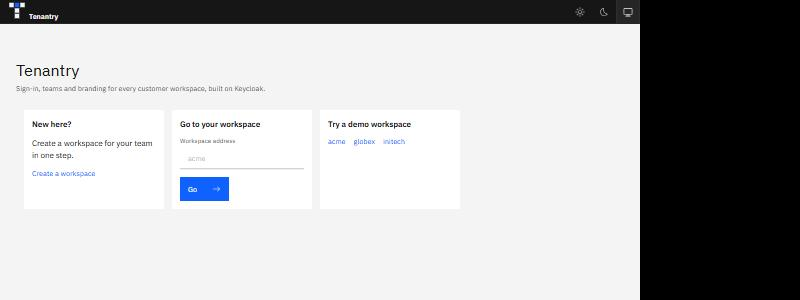
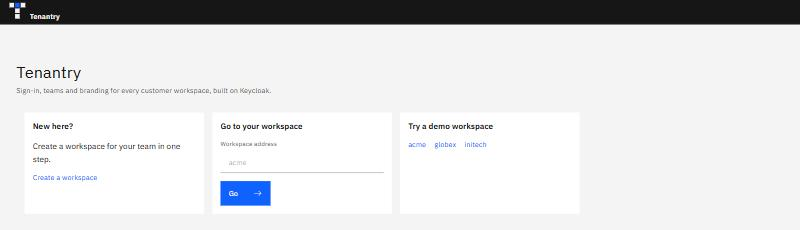
docs: README screenshots of the redesign; search opens at the page's level

diff --git a/packages/app-kit/src/search/WorkspaceSearch.tsx b/packages/app-kit/src/search/WorkspaceSearch.tsx
@@ -1,7 +1,8 @@
 import { ComposedModal, HeaderGlobalAction, ModalBody, Search } from '@carbon/react';
 import { Application, Folder, Search as SearchIcon, User } from '@carbon/icons-react';
 import type { NavItem } from '@tenantry/ui';
-import { useEffect, useMemo, useState } from 'react';
+import { useEffect, useMemo, useRef, useState } from 'react';
+import { createPortal } from 'react-dom';
 import { useNavigate } from 'react-router';
 import { useApi } from '../api.js';
 import { useMe } from '../me.js';
@@ -21,6 +22,16 @@ export function WorkspaceSearch({ pages }: { pages: NavItem[] }) {
   const [query, setQuery] = useState('');
   const [active, setActive] = useState(0);
   const [data, setData] = useState<Omit<SearchSources, 'pages'>>({ people: [], projects: [] });
+  const field = useRef<HTMLInputElement>(null);
+
+  // Focus the field once the dialog has opened, so typing starts at once.
+  useEffect(() => {
+    if (!open) return;
+    const timer = window.setTimeout(() => field.current?.focus(), 0);
+    return () => {
+      window.clearTimeout(timer);
+    };
+  }, [open]);
 
   useEffect(() => {
     const onKey = (event: KeyboardEvent) => {
@@ -94,75 +105,81 @@ export function WorkspaceSearch({ pages }: { pages: NavItem[] }) {
       >
         <SearchIcon size={20} />
       </HeaderGlobalAction>
-      <ComposedModal open={open} onClose={close} size="sm" aria-label="Search" className="tenantry-search">
-        <ModalBody>
-          {open && (
-            <Search
-              autoFocus
-              size="lg"
-              labelText="Search pages, people and projects"
-              placeholder="Search pages, people and projects"
-              value={query}
-              onChange={(event) => {
-                setQuery(event.target.value);
-                setActive(0);
-              }}
-              onKeyDown={(event) => {
-                // Carbon's field takes Esc to clear itself; here Esc closes the search.
-                if (event.key === 'Escape') {
-                  event.preventDefault();
-                  close();
-                } else if (event.key === 'ArrowDown') {
-                  event.preventDefault();
-                  setActive((i) => Math.min(i + 1, flat.length - 1));
-                } else if (event.key === 'ArrowUp') {
-                  event.preventDefault();
-                  setActive((i) => Math.max(i - 1, 0));
-                } else if (event.key === 'Enter') {
-                  event.preventDefault();
-                  go(flat[active]);
-                }
-              }}
-            />
-          )}
-          {query.trim() && flat.length === 0 && (
-            <p className="tenantry-search__none">{`Nothing matches "${query.trim()}".`}</p>
-          )}
-          {groups.map((group) => {
-            const Icon = ICONS[group.name];
-            return (
-              <div key={group.name} role="group" aria-label={group.name} className="tenantry-search__group">
-                <p className="tenantry-search__heading">{group.name}</p>
-                <ul>
-                  {group.hits.map((hit) => {
-                    const index = flat.indexOf(hit);
-                    return (
-                      <li key={`${group.name}-${hit.label}-${hit.detail ?? ''}`}>
-                        <button
-                          type="button"
-                          className="tenantry-search__hit"
-                          data-active={index === active ? 'true' : 'false'}
-                          disabled={!hit.href}
-                          onMouseEnter={() => {
-                            setActive(index);
-                          }}
-                          onClick={() => {
-                            go(hit);
-                          }}
-                        >
-                          <Icon size={16} aria-hidden="true" />
-                          <span className="tenantry-search__label">{hit.label}</span>
-                          {hit.detail && <span className="tenantry-search__detail">{hit.detail}</span>}
-                        </button>
-                      </li>
-                    );
-                  })}
-                </ul>
-              </div>
-            );
-          })}
-        </ModalBody>
-      </ComposedModal>
+      {/* At the page's level: inside the always-dark header it would take the header's theme, and sit
+          under the side nav. */}
+      {createPortal(
+        <ComposedModal open={open} onClose={close} size="sm" aria-label="Search" className="tenantry-search">
+          <ModalBody>
+            {open && (
+              <Search
+                ref={field}
+                autoFocus
+                size="lg"
+                labelText="Search pages, people and projects"
+                placeholder="Search pages, people and projects"
+                value={query}
+                onChange={(event) => {
+                  setQuery(event.target.value);
+                  setActive(0);
+                }}
+                onKeyDown={(event) => {
+                  // Carbon's field takes Esc to clear itself; here Esc closes the search.
+                  if (event.key === 'Escape') {
+                    event.preventDefault();
+                    close();
+                  } else if (event.key === 'ArrowDown') {
+                    event.preventDefault();
+                    setActive((i) => Math.min(i + 1, flat.length - 1));
+                  } else if (event.key === 'ArrowUp') {
+                    event.preventDefault();
+                    setActive((i) => Math.max(i - 1, 0));
+                  } else if (event.key === 'Enter') {
+                    event.preventDefault();
+                    go(flat[active]);
+                  }
+                }}
+              />
+            )}
+            {query.trim() && flat.length === 0 && (
+              <p className="tenantry-search__none">{`Nothing matches "${query.trim()}".`}</p>
+            )}
+            {groups.map((group) => {
+              const Icon = ICONS[group.name];
+              return (
+                <div key={group.name} role="group" aria-label={group.name} className="tenantry-search__group">
+                  <p className="tenantry-search__heading">{group.name}</p>
+                  <ul>
+                    {group.hits.map((hit) => {
+                      const index = flat.indexOf(hit);
+                      return (
+                        <li key={`${group.name}-${hit.label}-${hit.detail ?? ''}`}>
+                          <button
+                            type="button"
+                            className="tenantry-search__hit"
+                            data-active={index === active ? 'true' : 'false'}
+                            disabled={!hit.href}
+                            onMouseEnter={() => {
+                              setActive(index);
+                            }}
+                            onClick={() => {
+                              go(hit);
+                            }}
+                          >
+                            <Icon size={16} aria-hidden="true" />
+                            <span className="tenantry-search__label">{hit.label}</span>
+                            {hit.detail && <span className="tenantry-search__detail">{hit.detail}</span>}
+                          </button>
+                        </li>
+                      );
+                    })}
+                  </ul>
+                </div>
+              );
+            })}
+          </ModalBody>
+        </ComposedModal>,
+        document.body,
+      )}
     </>
   );
 }

diff --git a/packages/app-kit/src/search/WorkspaceSearch.test.tsx b/packages/app-kit/src/search/WorkspaceSearch.test.tsx
@@ -82,4 +82,15 @@ describe('WorkspaceSearch (spec 8.3)', () => {
     expect(await screen.findByText('Nothing matches "peo".')).toBeInTheDocument();
     expect(routes.get).toHaveBeenCalledWith('/api/projects');
   });
+
+  it("opens at the page's level, never inside the dark header", async () => {
+    renderWithApp(
+      <header>
+        <WorkspaceSearch pages={pages} />
+      </header>,
+      { api: api(), me: makeMe('owner', [...ROLE_PERMISSIONS.owner]) },
+    );
+    await userEvent.setup().click(screen.getByRole('button', { name: 'Search' }));
+    expect((await screen.findByRole('searchbox')).closest('header')).toBeNull();
+  });
 });
